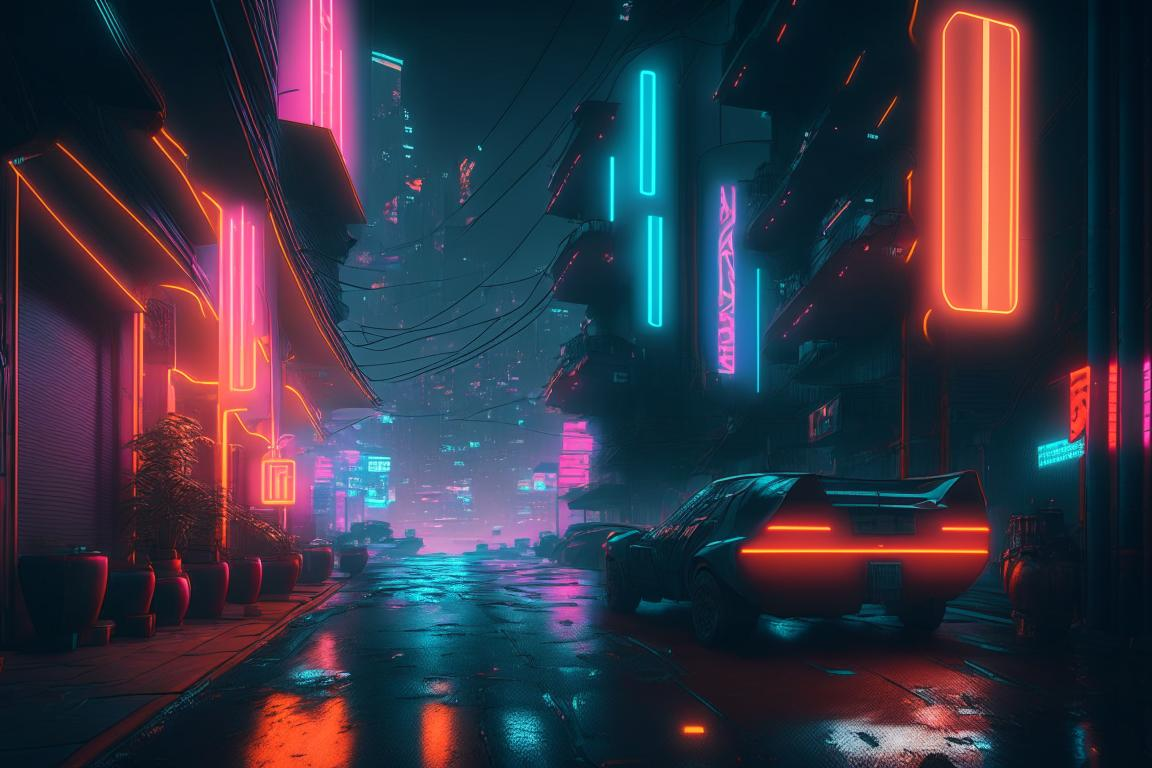
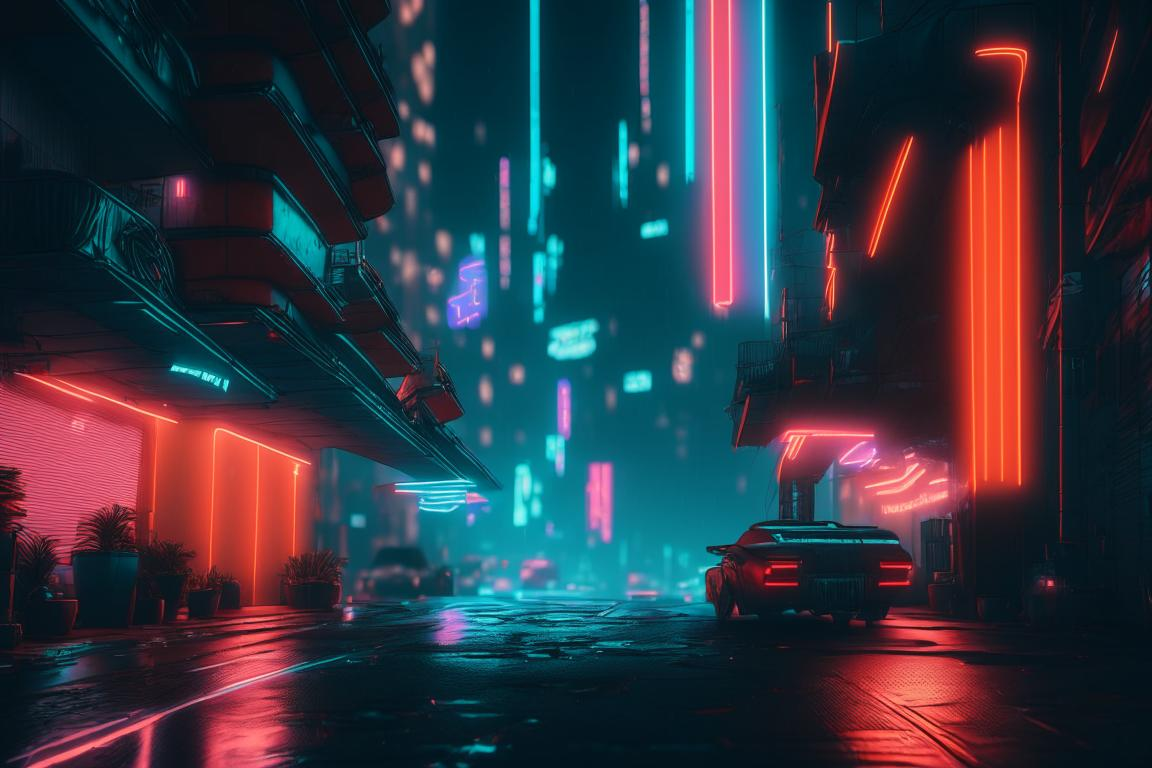
изменен стиль

diff --git a/LifeSpot/wwwroot/CSS/AboutPage.css b/LifeSpot/wwwroot/CSS/AboutPage.css
@@ -263,7 +263,7 @@ input {
     display: grid;
     margin: 0;
     padding: 0;
-    border: 10px solid #7BA7AB;
+    /*border: 10px solid #7BA7AB;*/
     width: 70%;
 }
 
@@ -282,22 +282,25 @@ input {
 
 #previousButton, #nextButton {
     width: 100%;
+    height: 100px;
+    background-color: #7BA7AB;
+    border: none;
 }
 
 #buttonPreviousDiv, #buttonNextDiv {
-    position: absolute;
+    position: relative;
     display: flex;
     text-align: center;
     justify-content: center;
     align-items: center;
     width: 10%;
     word-wrap: break-word;
-    justify-content: center;
-    align-items: center;
+/*    justify-content: center;
+    align-items: center;*/
 }
 
 #buttonNextDiv {
-    left: 90%;
+    left: 80%;
 }
 
 #divImg {
@@ -310,7 +313,7 @@ input {
     overflow: hidden;
     /* margin-left: auto; */
     /* margin-right: auto; */
-    border: 2px solid black;
+    border: 10px solid #7BA7AB;
     /* justify-content: center; */
     align-items: center;
     scroll-snap-type: y mandatory;

diff --git a/LifeSpot/Views/Shared/SliderAboutPage.html b/LifeSpot/Views/Shared/SliderAboutPage.html
@@ -12,7 +12,7 @@
             <img src="../wwwroot/Img/neoncity_Kandinsky_2.1.jpg" />
             <img src="../wwwroot/Img/neoncity_lamborghini_Kandinsky_2.1(1).jpg"  />
             <img src="../wwwroot/Img/retrowave_city_Kandinsky_2.1.jpg"  />
-            <img src="../wwwroot/Img/move throu the neoncity_Kandinsky 2.1.jpg"  />
+            <img src="../../wwwroot/Img/move throu the neoncity_Kandinsky 2.1.jpg" />
         </div>
 
         <div id="buttonNextDiv">

diff --git a/LifeSpot/EndpointMapper.cs b/LifeSpot/EndpointMapper.cs
@@ -45,7 +45,14 @@ namespace LifeSpot
         //для подключения изображений
         public static void MapIMG(this IEndpointRouteBuilder routeBuilder)
         {
-            var imgFilesArr = new[] { "alone_human_in_neoncity_Kandinsky_2.1.jpg", "neoncity lamborghini_Kandinsky_2.1.jpg", "neoncity_Kandinsky_2.1.jpg", "neoncity_lamborghini_Kandinsky_2.1(1).jpg", "retrowave_city_Kandinsky_2.1.jpg" };
+            var imgFilesArr = new[] { 
+                "alone_human_in_neoncity_Kandinsky_2.1.jpg",
+                "neoncity lamborghini_Kandinsky_2.1.jpg",
+                "neoncity_Kandinsky_2.1.jpg",
+                "neoncity_lamborghini_Kandinsky_2.1(1).jpg",
+                "retrowave_city_Kandinsky_2.1.jpg",
+                "move throu the neoncity_Kandinsky 2.1.jpg" };
+
             foreach (var imgFile in imgFilesArr)
             {
                 routeBuilder.MapGet($"wwwroot/Img/{imgFile}", async images =>
